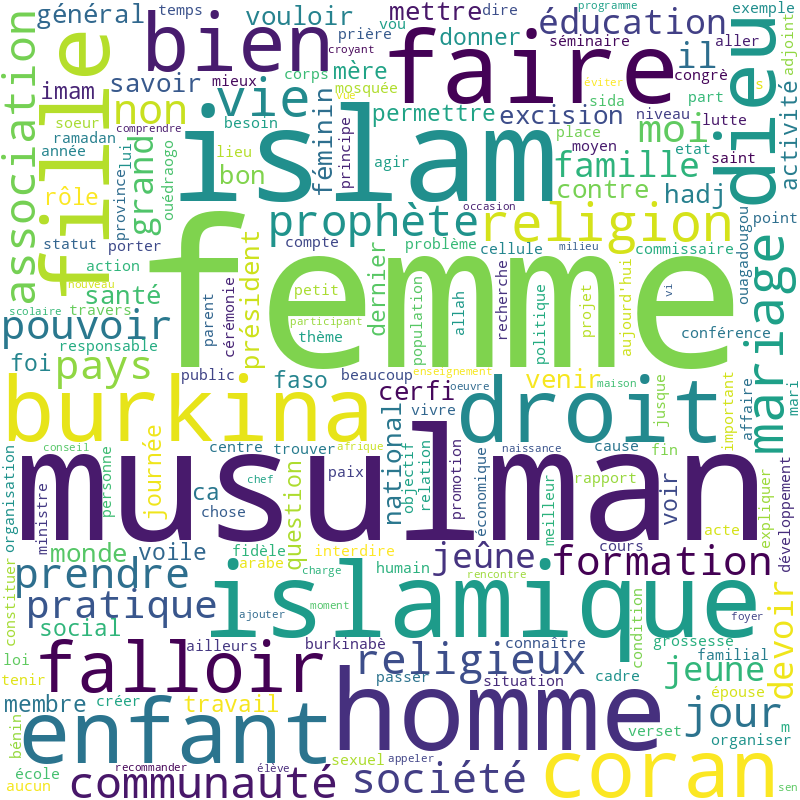
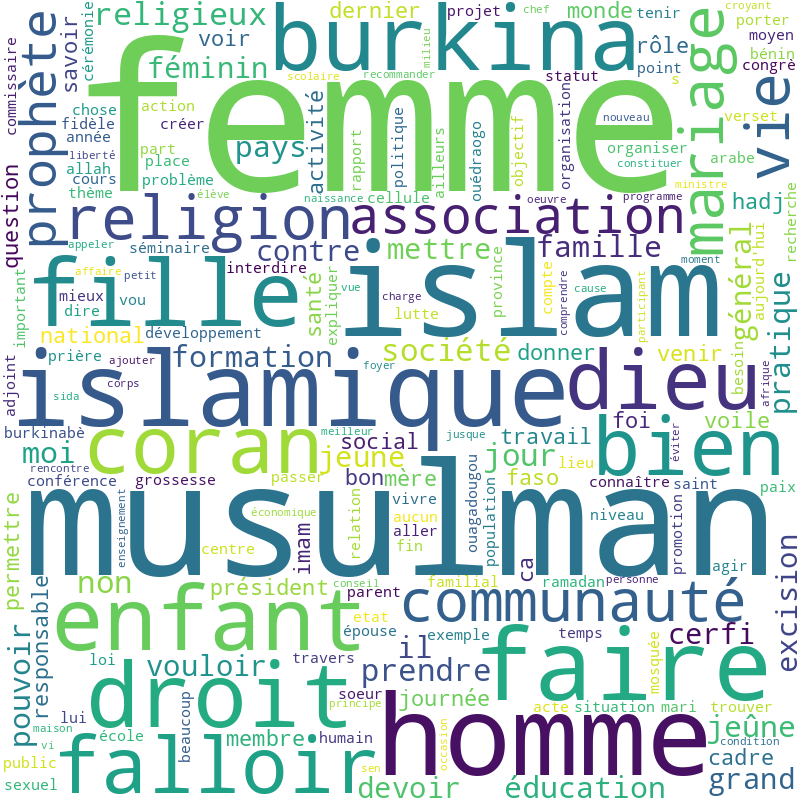
Update

diff --git a/3. nuage_mots.py b/3. nuage_mots.py
@@ -13,7 +13,7 @@ df['Processed_Content'] = df['Processed_Content'].str.lower()
 all_text = ' '.join(df['Processed_Content'].dropna())
 
 # Définir une liste de mots à exclure (stopwords) en plus des stopwords par défaut
-additional_stopwords = {"el", "être", "t", "mme"}  # Ajouter ici les mots à exclure
+additional_stopwords = {"el", "être", "t", "mme", "m"}  # Ajouter ici les mots à exclure
 stopwords = set(STOPWORDS).union(additional_stopwords)
 
 # Créer un objet WordCloud en excluant les stopwords définis et en désactivant les collocations
